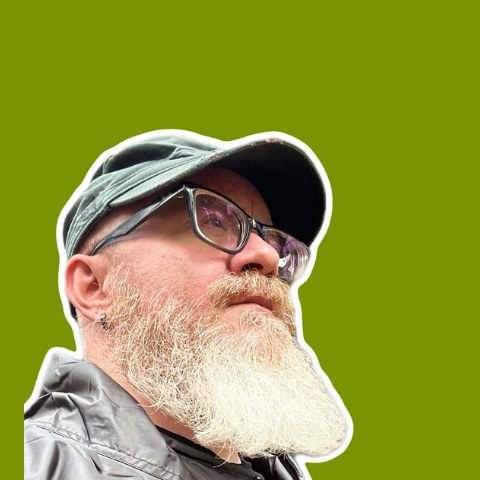
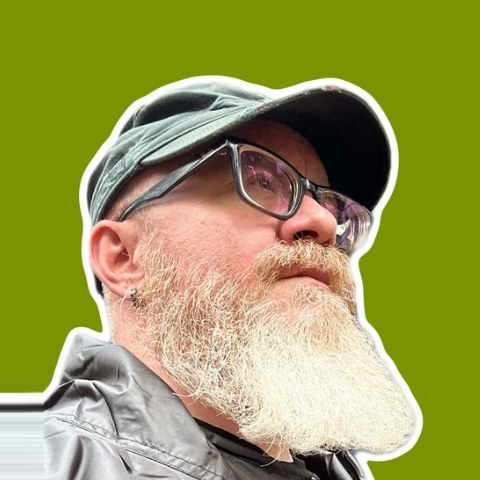
Add files via upload

diff --git a/index.html b/index.html
@@ -48,7 +48,7 @@
 <main>
 
   <div class="photo">
-    <img src="/photo.jpg" alt="Dann Adams" width="180" height="180">
+    <img src="/photo.jpg?v=2" alt="Dann Adams" width="180" height="180">
   </div>
 
   <h1>Dann Adams</h1>
